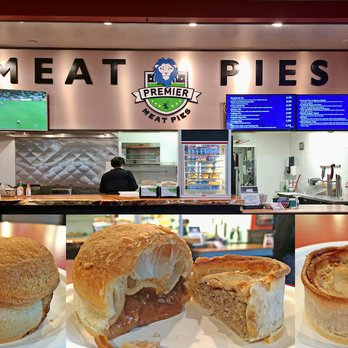
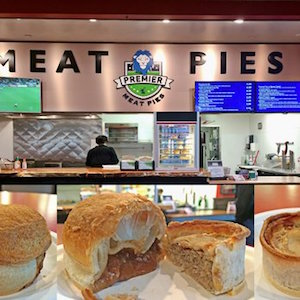
Formatted reviews form, made all images 300x300

diff --git a/location.html b/location.html
@@ -35,34 +35,42 @@
         <h3>Reviews</h3>
         <ul id="user_reviews"></ul>
         <div id="add_new_review">
-          <h3>Have something to say about this place?</h3>
+          <h3 class="review">Have something to say about this place?</h3>
           <form id="new_review">
-            Your name:&nbsp;<input type="text" name="username" id="username" placeholder="Who are you?" required>
-            Favorite Item:&nbsp;<input type="text" name="fav_item" id="fav_item" placeholder="What's the best thing on the menu?" value="Nothing!">
-            <br>
-            <h6>How is the price of a typical order?</h6>
-            <select id="cost_drp">
-              <option value=0>Select price</option>
-              <option value=1>1 - Cheap!</option>
-              <option value=2>2 - Reasonable!</option>
-              <option value=3>3 - Pricey!</option>
-            </select>
-            <h6>How would you rate this restaurant?</h6>
-            <select id="rating_drp">
-              <option value=0>Select rating</option>
-              <option value=1>1 - Do not want.</option>
-              <option value=2>2 - Not great.</option>
-              <option value=3>3 - Alright.</option>
-              <option value=4>4 - Pretty great.</option>
-              <option value=5>5 - I'm a fan!</option>
-            </select>
-            <br>
-            <label><input type="checkbox" id="code_check" class="custom_check">Is this a good place to code?</label>
-            <br>
-            Your review:&nbsp;
-            <br>
-            <textarea name="review" id="review" rows="8" cols="60" placeholder="Tell us what you think!"></textarea>
-            <input type="submit" id="submitReviewBtn" required>
+            <fieldset>
+              <label for="username">Your name:</label>
+              <input type="text" name="username" id="username" placeholder="Who are you?" required>
+              <label for"fav_item">Favorite Item:</label>
+              <input type="text" name="fav_item" id="fav_item" placeholder="What's the best thing on the menu?" value="Nothing!">
+            </fieldset>
+            <fieldset>
+              <label for="cost_drp">How is the price of a typical order?</label>
+              <select id="cost_drp">
+                <option value=0>Select price</option>
+                <option value=1>1 - Cheap!</option>
+                <option value=2>2 - Reasonable!</option>
+                <option value=3>3 - Pricey!</option>
+              </select>
+            </fieldset>
+            <fieldset>
+              <label for="rating_drp">How would you rate this restaurant?</label>
+              <select id="rating_drp">
+                <option value=0>Select rating</option>
+                <option value=1>1 - Do not want.</option>
+                <option value=2>2 - Not great.</option>
+                <option value=3>3 - Alright.</option>
+                <option value=4>4 - Pretty great.</option>
+                <option value=5>5 - I'm a fan!</option>
+              </select>
+            </fieldset>
+            <fieldset>
+              <label for="code_check">This is a good place to code!</label>
+              <input type="checkbox" id="code_check" class="custom_check">
+            </fieldset>
+            <fieldset>
+              <textarea name="review" id="review" rows="8" cols="90" placeholder="Now tell us what you think of the place."></textarea>
+            </fieldset>
+            <input type="submit" value="Submit Your Review" id="submitReviewBtn" required>
           </form>
         </div>
       </section>

diff --git a/js/restaurants.js b/js/restaurants.js
@@ -42,18 +42,18 @@ function getAverage(ObjsToAvg, property) {
 }
 
 var fivePointCafe = new Restaurant('Five Point Cafe', '415 Cedar Street, Seattle, WA', '206-448-9991', ['american', 'breakfast', 'beer'], false, 'img/5point.jpg');
-var bangBangCafe = new Restaurant('Bang Bang Cafe', '2460 Western Ave, Seattle, WA', '206-448-2233', ['sandwich', 'mexican', 'breakfast'], true, 'img/bangbang.jpg');
+var bangBangCafe = new Restaurant('Bang Bang Cafe', '2460 Western Ave, Seattle, WA', '206-448-2233', ['breakfast', 'mexican', 'sandwiches'], true, 'img/bangbang.jpg');
 var cherryStCoffee = new Restaurant('Cherry Street Coffee', '2621 5th Ave, Seattle, WA', '206-812-1298', ['coffee'], false, 'img/cherrystreet.jpg');
-var modPizza = new Restaurant('Mod Pizza', '305 Harrison St., Seattle, WA', '206-428-6315', ['pizza'], true, 'img/mod.jpg');
-var plumPantry = new Restaurant('Plum Pantry', '305 Harrison St., Seattle, WA', '206-428-6337', ['healthy', 'salad'], true, 'img/plum.jpg');
-var premMeatPies = new Restaurant('Premier Meat Pies', '305 Harrison St., Seattle, WA', '206-428-6280', ['pies', 'american', 'beer'], false, 'img/meatpies.jpg');
+var modPizza = new Restaurant('Mod Pizza', '305 Harrison St., Seattle, WA', '206-428-6315', ['pizza', 'beer'], true, 'img/mod.jpg');
+var plumPantry = new Restaurant('Plum Pantry', '305 Harrison St., Seattle, WA', '206-428-6337', ['healthy', 'salad', 'vegan'], true, 'img/plum.jpg');
+var premMeatPies = new Restaurant('Premier Meat Pies', '305 Harrison St., Seattle, WA', '206-428-6280', ['pie', 'beer'], false, 'img/meatpies.jpg');
 var quincysBurg = new Restaurant('Quincy\'s Charbroiled Burgers', '305 Harrison St., Seattle, WA', '206-728-2228', ['american', 'seafood', 'beer'], false, 'img/quincy.jpg');
 var sportBar = new Restaurant('Sport Restaurant & Bar', '140 4th Ave N, Seattle, WA', '206-404-7767', ['american', 'pizza', 'beer'], false, 'img/sport.jpg');
 var streetBean = new Restaurant('Street Bean Coffee', '2711 3rd Ave Seattle, WA', '206-708-6803', ['coffee'], false, 'img/streetbean.jpg');
 var tacoDelMar = new Restaurant('Taco Del Mar', '411 Cedar Street Seattle, WA', '206-443-1000', ['mexican'], true, 'img/taco.jpg');
-var thaiOnOne = new Restaurant('Thai on 1', '2904 1st Ave, Seattle, WA', '206-441-4348', ['thai', 'asian', 'beer'], false, 'img/thai.jpg');
+var thaiOnOne = new Restaurant('Thai on 1', '2904 1st Ave, Seattle, WA', '206-441-4348', ['thai', 'beer'], false, 'img/thai.jpg');
 var uptownExpresso = new Restaurant('Uptown Expresso', '2801 Alaskan Way Seattle, WA', '206-770-7777', ['coffee'], false, 'img/uptown.jpg');
-var worldClassCoffee = new Restaurant('World Class Coffee', '2819 2nd Ave, Seattle, WA 98121', '206-441-2967', ['coffee', 'sandwich', 'asian'], false, 'img/world.jpg');
+var worldClassCoffee = new Restaurant('World Class Coffee', '2819 2nd Ave, Seattle, WA 98121', '206-441-2967', ['sandwiches', 'teriyaki', 'coffee'], false, 'img/world.jpg');
 
 fivePointCafe.reviews = [fivept1, fivept2];
 bangBangCafe.reviews = [bang1];

diff --git a/css/location.css b/css/location.css
@@ -1,4 +1,8 @@
 /* LOCATION PAGE SPECIFIC STYLES GO HERE! */
+* {
+  /*outline: 1px dashed orange;*/
+}
+
 section {
   clear: both;
 }
@@ -8,27 +12,11 @@ section h2, h3 {
   margin: 0 30px;
 }
 
-section h3 {
+h3 {
   color: #cf2f26;
   font-family: "Monda", sans-serif;
   text-align: center;
   border-bottom: 1px solid #4d4d4d;
-}
-
-form {
-  align-content: center;
-  text-align: center;
-}
-
-@keyframes hideDiv {
-    from {opacity: 1;}
-    to {opacity: 0;}
-}
-
-.hide {
-  animation-name: hideDiv;
-  animation-duration: 700ms;
-  opacity: 0;
 }
 
 #details {
@@ -52,12 +40,13 @@ form {
 }
 
 #details li {
-  padding-bottom: 10px;
+  padding-bottom: 2px;
   list-style: disc inside none;
+  margin-left: 15px;
 }
 
 #details p, #details li:last-child {
-  padding-bottom: 15px;
+  padding-bottom: 12px;
 }
 
 #details .above_list {
@@ -67,7 +56,6 @@ form {
 #reviews {
   display: none;
   width: 960px;
-  margin: 30px 0;
 }
 
 #reviews li {
@@ -83,6 +71,39 @@ form {
 #reviews li p:last-child {
   border-bottom: 1px solid #4d4d4d;
   padding-bottom: 30px;
+}
+
+.review {
+  border-bottom: none;
+}
+
+form {
+  /*align-content: center;
+  text-align: center;*/
+  margin: 0px 165px;
+}
+
+fieldset {
+  margin: 10px 30px;
+}
+
+label {
+  padding-right: 5px;
+}
+
+input {
+  margin-right: 30px;
+}
+
+@keyframes hideDiv {
+    from {opacity: 1;}
+    to {opacity: 0;}
+}
+
+.hide {
+  animation-name: hideDiv;
+  animation-duration: 700ms;
+  opacity: 0;
 }
 
 #all_restaurants {
@@ -103,12 +124,12 @@ form {
   color: #cf2f26;
 }
 
-button {
+button, #submitReviewBtn {
   background: #a51a13;
   border: none;
   border-radius: 20px;
   color: #fff;
-  display: inline-block;
+  display: block;
   font-family: "Source Code Pro", monospace;
   margin: 10px auto;
   padding: 8px 20px;

diff --git a/js/reviews.js b/js/reviews.js
@@ -19,7 +19,7 @@ bang1.comment = 'It\'s a "meh" place to code. Possible but not ideal. Also - Ban
 var cherry1 = new Review('Kris Skelton', '12oz iced Americano with heavy cream', 0, 2, 4);
 cherry1.comment = 'There is one table that can accommodate four people, as I recall. I don\'t believe they have WiFi. I mostly go here because it\'s a reasonable walk from Code Fellows (15 min round trip). They serve sandwiches and light fare, and the pastries are good. The coffee is excellent and the regular staff are all really nice. Heavy cream is available upon request.';
 
-var mod1 = new Review('Erica', 'Pizza with grilld asparagus', 0, 2, 3);
+var mod1 = new Review('Erica', 'Pizza with grilled asparagus', 0, 2, 3);
 mod1.comment = 'Lines at lunch are crazy when the weather is nice.';
 
 var plum1 = new Review('Alison Z', 'Jerk Tofu & Yam', 0, 3, 5);
